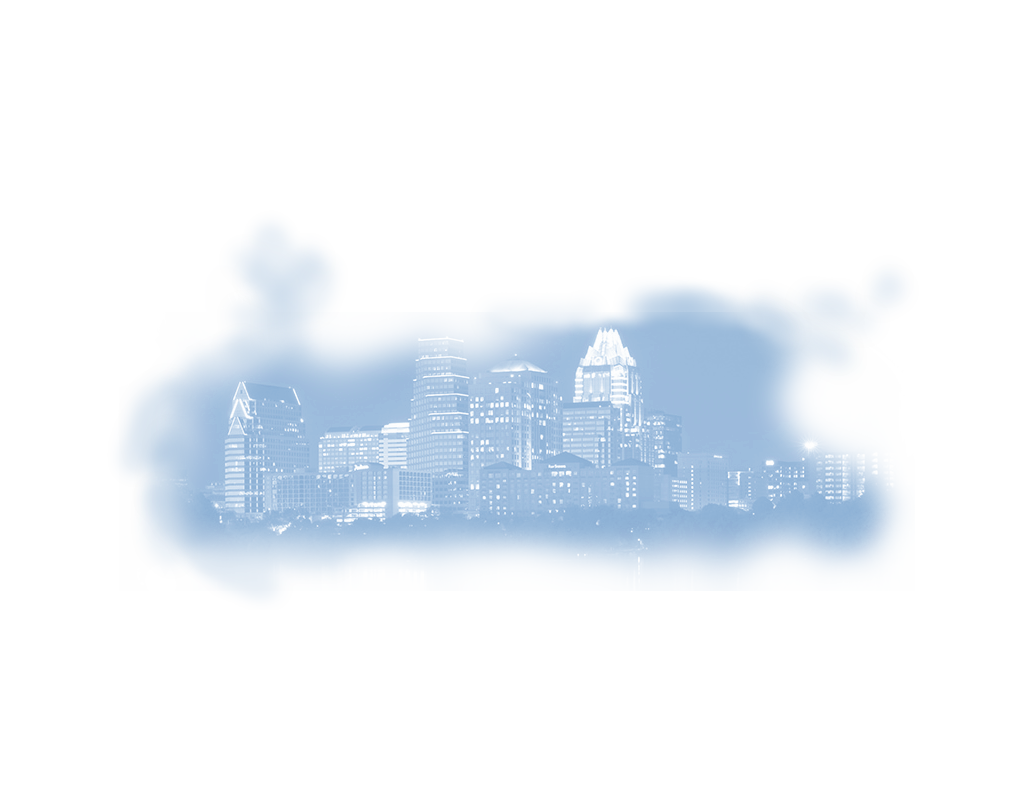
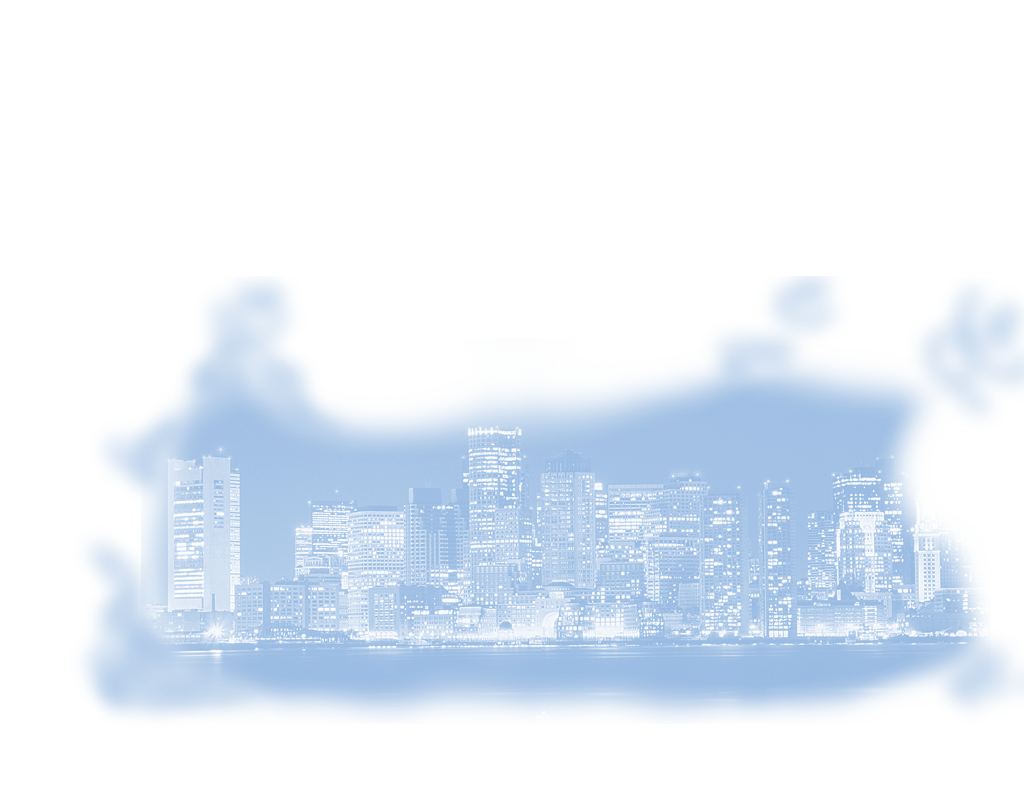
change location to Boston and date to July

Changed region(s): [[0.0625, 0.3125, 1.0, 0.9062], [0.125, 0.4688, 0.1875, 0.5312]]

diff --git a/email.html b/email.html
@@ -13,7 +13,7 @@
 
 		<p style="font-size: 1.1em"><b>Thank you for your interest in Monospace 2011!</b></p>
 
-		<p>We are extremely happy to have the opportunity to organize an event that we hope will bring together aficionados of open source software, .Net and, more importantly, the Mono framework. Monospace will be a three day event mixing two days of sessions and one day of open space and will take place in Austin, Texas in October 2011, although the exact date hasn't been finalized yet. We plan to charge around $250 per ticket to cover our costs, plan for you to have a great time in Austin and to promote community events around Mono throughout the year.</p>
+		<p>We are extremely happy to have the opportunity to organize an event that we hope will bring together aficionados of open source software, .Net and, more importantly, the Mono framework. Monospace will be a three day event mixing two days of sessions and one day of open space and will take place in Boston in July 2011, although the exact date hasn't been finalized yet. We plan to charge around $250 per ticket to cover our costs, plan for you to have a great time in Austin and to promote community events around Mono throughout the year.</p>
 
 		<p>We have very fond memories of the first Monospace and we hope to create new and better experience this time around. We certainly hope you will a part of this and we will be sure to keep you updated as we progress in our organization of this conference.</p>
 

diff --git a/index.html b/index.html
@@ -28,7 +28,7 @@
 			#content .signup {
 				padding: 0 10px 0 0;
 				position: relative;
-				top: 100px;
+				top: 90px;
 				width: 100%;
 				text-align: center;
 				font-weight: bold;
@@ -36,7 +36,7 @@
 			
 			#content .email {
 				position: relative;
-				top: 275px;
+				top: 355px;
 				width: 100%;
 				text-align: center;
 				font-weight: bold;
@@ -82,8 +82,8 @@
 			</div>
 			<div class="clear"></div>
 			<div class="signup">
-				a conference about Mono coming to Austin, Texas<br/>
-				October, 2011
+				a conference about Mono coming to Boston<br/>
+				July, 2011
 			</div>
 			<div class="email">
 				<form action="http://monospace.createsend.com/t/r/s/xuthjk/" method="post" id="subForm">
